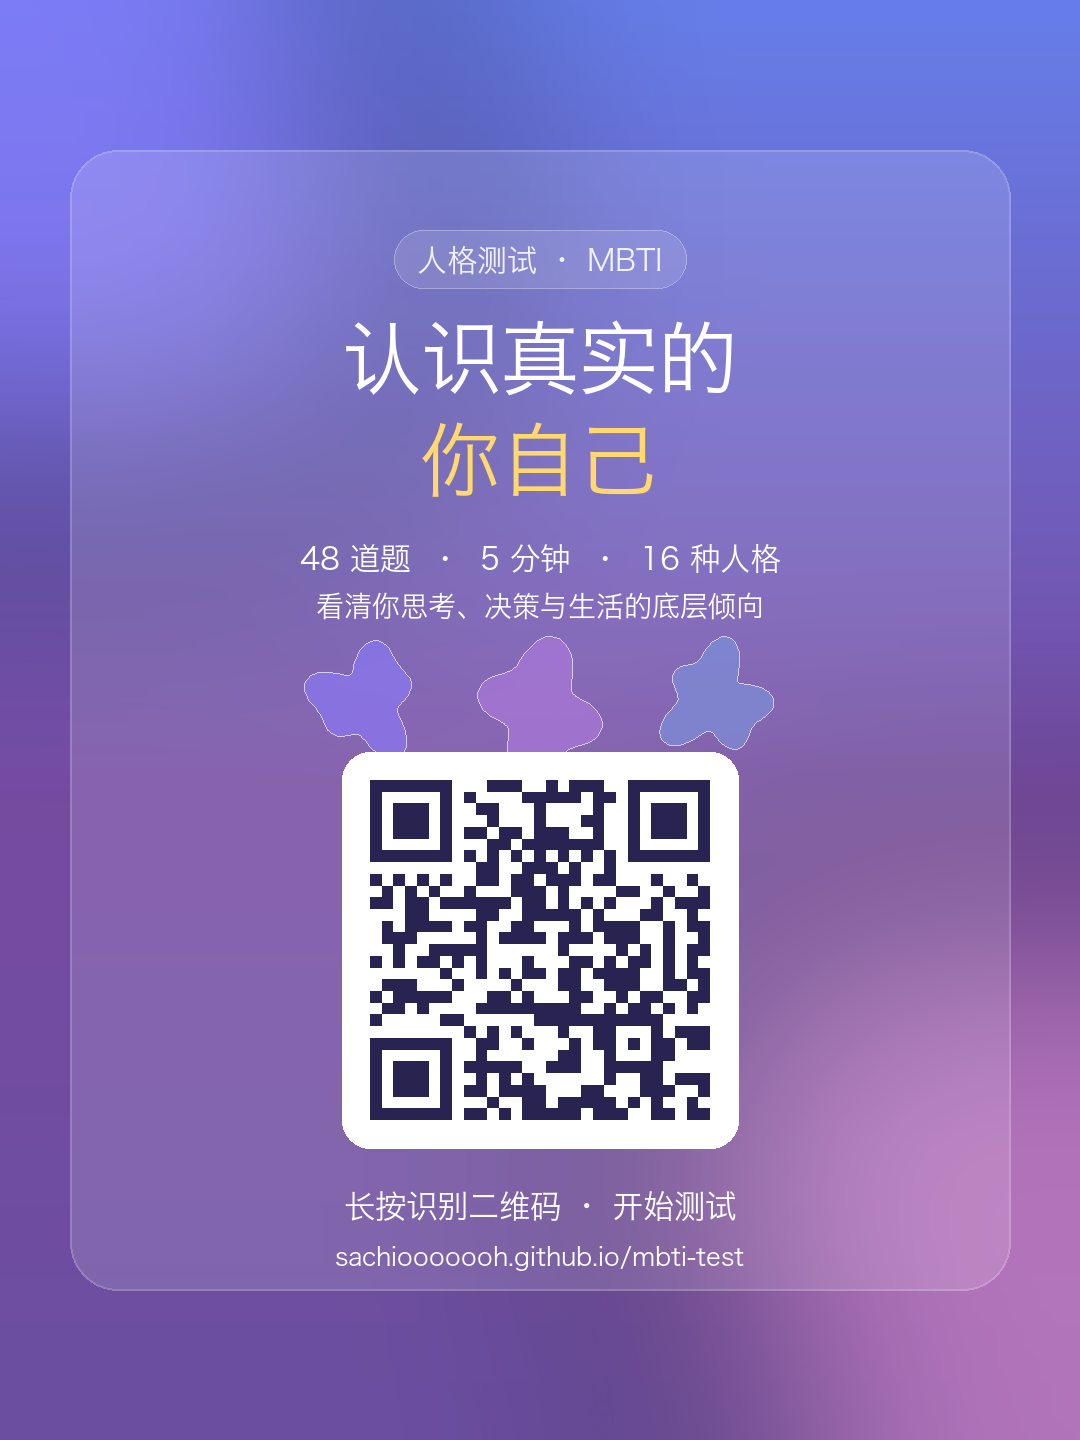
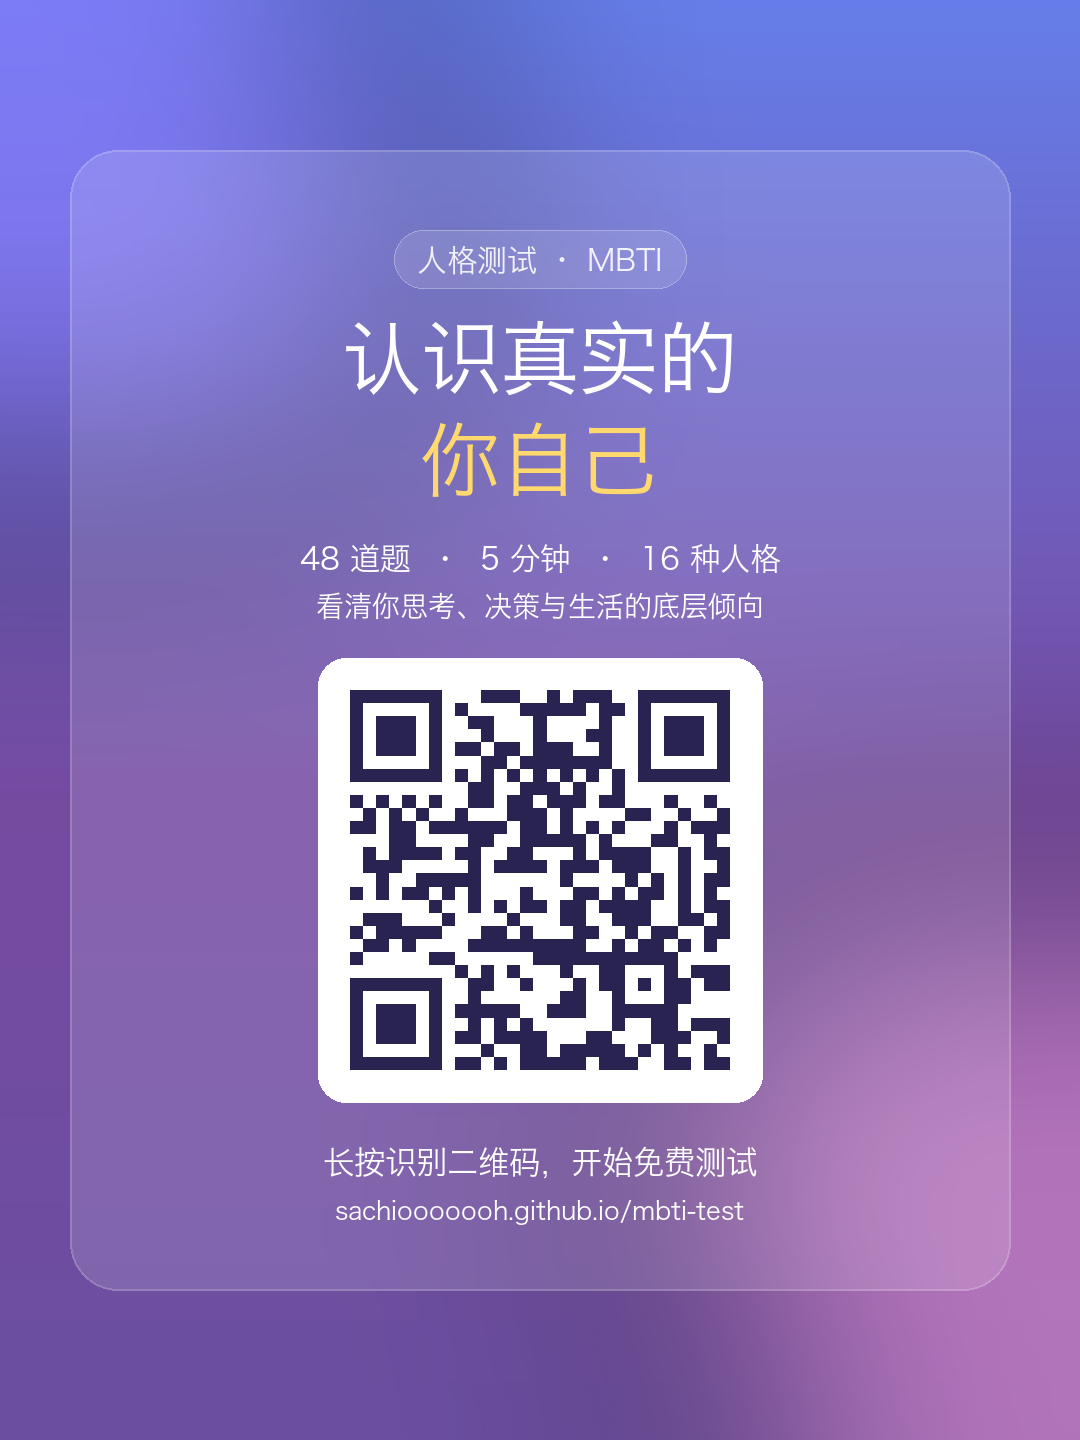
chore: 海报去掉点缀+放大二维码+文案改"免费测试"

Changed region(s): [[0.275, 0.4375, 0.7333, 0.875]]

diff --git a/make_poster.py b/make_poster.py
@@ -1,7 +1,6 @@
 #!/usr/bin/env python3
 # -*- coding: utf-8 -*-
 """生成 MBTI 测试传播海报（玻璃拟态风 + 二维码）。改 URL 后重跑即可。"""
-import math
 import qrcode
 from qrcode.constants import ERROR_CORRECT_M
 from PIL import Image, ImageDraw, ImageFont, ImageFilter
@@ -72,37 +71,14 @@ d.text((cx, 558), "48 道题  ·  5 分钟  ·  16 种人格", font=mf, fill=(25
 sf = font(28)
 d.text((cx, 606), "看清你思考、决策与生活的底层倾向", font=sf, fill=(255,255,255,180), anchor="mm")
 
-# ---------- 专属人格图形点缀（呼应测试里的生成式图形） ----------
-def blob(bcx, bcy, base_r, params, fill, outline):
-    pts = []
-    for i in range(120):
-        th = i / 120 * math.tau
-        r = base_r
-        for freq, amp, ph in params:
-            r += amp * math.sin(freq*th + ph)
-        r = max(r, base_r*0.5)
-        pts.append((bcx + r*math.cos(th - math.pi/2), bcy + r*math.sin(th - math.pi/2)))
-    layer = Image.new("RGBA", (W, H), (0,0,0,0))
-    ImageDraw.Draw(layer).polygon(pts, fill=fill, outline=outline)
-    return layer
-
-blobs = [
-    (cx-175, 700, 48, [(3, 11, 0), (5, 8, 1.2)], (139,123,255,150)),
-    (cx,     710, 56, [(4, 13, .6), (2, 8, 2.0)], (176,123,224,150)),
-    (cx+175, 700, 48, [(5, 10, .3), (3, 9, 1.7)], (123,150,224,150)),
-]
-for bx, by, br, pr, col in blobs:
-    base = Image.alpha_composite(base, blob(bx, by, br, pr, col, (255,255,255,170)))
-d = ImageDraw.Draw(base)
-
 # ---------- 二维码（白底卡） ----------
 qr = qrcode.QRCode(error_correction=ERROR_CORRECT_M, box_size=10, border=0)
 qr.add_data(URL); qr.make(fit=True)
 qimg = qr.make_image(fill_color=(40,35,80), back_color="white").convert("RGBA")
-QS = 340
+QS = 380
 qimg = qimg.resize((QS, QS), Image.NEAREST)
-pad = 28
-qcx, qcy = cx, 950
+pad = 32
+qcx, qcy = cx, 880
 qcard = [qcx-QS//2-pad, qcy-QS//2-pad, qcx+QS//2+pad, qcy+QS//2+pad]
 qov = Image.new("RGBA", (W, H), (0,0,0,0))
 ImageDraw.Draw(qov).rounded_rectangle(qcard, radius=28, fill=(255,255,255,255))
@@ -112,7 +88,7 @@ base.paste(qimg, (qcx-QS//2, qcy-QS//2), qimg)
 d = ImageDraw.Draw(base)
 # ---------- 二维码下方引导 ----------
 cf = font(34, bold=True)
-d.text((cx, qcy+QS//2+pad+58), "长按识别二维码 · 开始测试", font=cf, fill=(255,255,255,245), anchor="mm")
+d.text((cx, qcy+QS//2+pad+60), "长按识别二维码，开始免费测试", font=cf, fill=(255,255,255,245), anchor="mm")
 uf = font(25)
 d.text((cx, qcy+QS//2+pad+108), "sachiooooooh.github.io/mbti-test", font=uf, fill=(255,255,255,150), anchor="mm")
 
